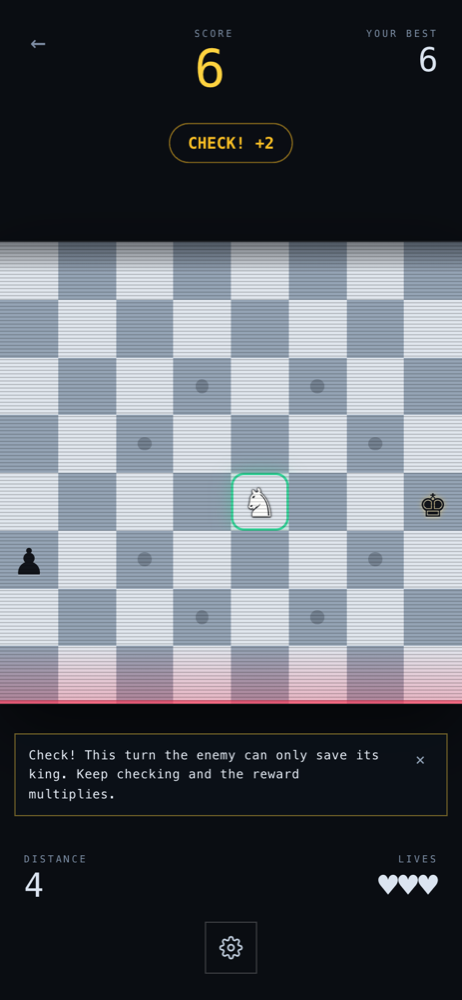
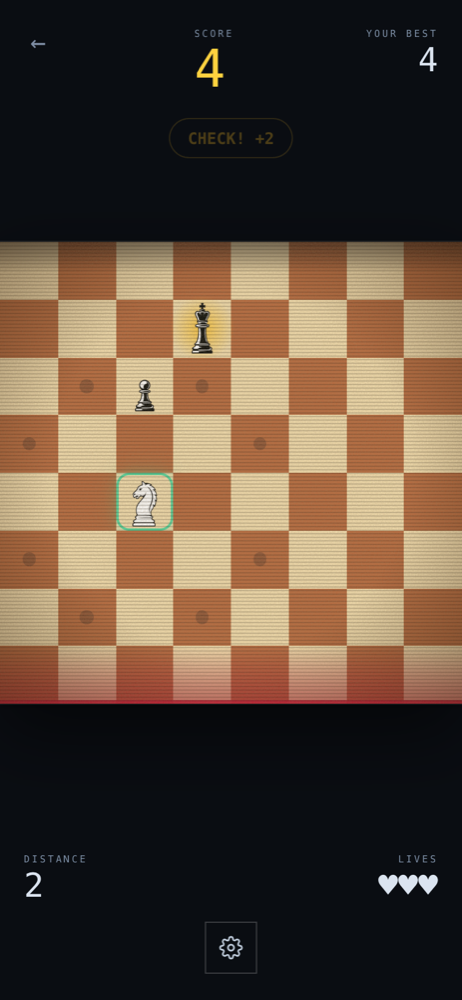
README güncel; ana sayfa kart başlıkları kesilmiyor
- README: dört güncel ekran görüntüsü (menü, Hunt, Trio, yeni Maharajah);
  ortak haftalık lig ve kurtarma kodu; Maharajah puanı ve lige sayılması;
  depo yapısı (src, server, sub, shared).
- Ana sayfa: «EN İYİN» etiketi yalnızca geniş ekranda tek satır - mobilde
  uzun etiket (YOUR BEST, DEIN BESTES) kart başlığını kesiyordu. Kart
  başlığı dilin kuralıyla tirelenip alt satıra inebiliyor
  (TAGESHERAUSFORDERUNG dar kartta kesilmiyor).

diff --git a/src/App.css b/src/App.css
@@ -1000,6 +1000,14 @@
   }
 }
 
+/* «EN İYİN» iki kelime: geniş kartta alt alta kırılmasın. Mobilde kırılabilir -
+   yoksa uzun etiket (YOUR BEST, DEIN BESTES) kart başlığını kesiyordu */
+@media (min-width: 760px) {
+  .bi-hi em {
+    white-space: nowrap;
+  }
+}
+
 /* Geniş masaüstü: kartlar ve yazılar bir kademe büyük - 340px'lik kartlar
    1440px ekranda küçük ve 10px metin okunmuyordu */
 @media (min-width: 1200px) {
@@ -1150,9 +1158,11 @@
   font-size: 14px;
   letter-spacing: 0.11em;
   font-weight: 400;
-  white-space: nowrap;
-  overflow: hidden;
-  text-overflow: ellipsis;
+  /* Uzun tek kelime (TAGESHERAUSFORDERUNG) dar kartta kesilmesin: dilin
+     kuralıyla tirelenip alt satıra iner (html lang App.tsx'te ayarlı) */
+  hyphens: auto;
+  -webkit-hyphens: auto;
+  overflow-wrap: break-word;
 }
 
 .bi-t small {
@@ -1178,8 +1188,6 @@
 .bi-hi em {
   display: block;
   font-style: normal;
-  /* «EN İYİN» iki kelime: dar kartta alt alta kırılmasın */
-  white-space: nowrap;
   font-size: 8.5px;
   letter-spacing: 0.2em;
   color: #8496ad;

diff --git a/README.md b/README.md
@@ -12,11 +12,13 @@
 <p><a href="https://chessrun.app"><img src="https://img.shields.io/badge/%E2%96%B6%20Play%20now-chessrun.app-f5c518?style=for-the-badge&amp;labelColor=0b0e14" alt="▶ Play now: chessrun.app" height="68"></a></p>
 
 <p>
-  <img src="docs/screenshots/menu.png" alt="ChessRun main menu" width="210">
-  &nbsp;&nbsp;&nbsp;
-  <img src="docs/screenshots/hunt.png" alt="Hunt mode" width="210">
-  &nbsp;&nbsp;&nbsp;
-  <img src="docs/screenshots/trio.png" alt="Trio mode" width="210">
+  <img src="docs/screenshots/menu.png" alt="ChessRun main menu" width="180">
+  &nbsp;&nbsp;
+  <img src="docs/screenshots/hunt.png" alt="Hunt mode" width="180">
+  &nbsp;&nbsp;
+  <img src="docs/screenshots/trio.png" alt="Trio mode" width="180">
+  &nbsp;&nbsp;
+  <img src="docs/screenshots/maharajah.png" alt="Maharajah, Falcon role" width="180">
 </p>
 
 </div>
@@ -38,11 +40,21 @@ An endless runner on an endlessly scrolling chessboard. You move with chess move
 - Take the enemy king: +25 points, +1 life and a fresh board.
 - Give check and the enemy must defend; chained checks multiply the score.
 - Fall off the bottom row or get taken and you lose a life.
-- Daily challenge: everyone gets the same board each day, once a day. Weekly leaderboard, no sign-up.
-- Maharajah: classic 8×8, no scrolling, play as often as you like. Pawns do not promote, stalemate is a draw, 50 moves or threefold repetition is a draw.
+- Daily challenge: everyone gets the same board each day, once a day.
+- One weekly league for all games, no sign-up. A recovery code moves your name, badges and scores to another device.
+- Maharajah: classic 8×8, no scrolling, play as often as you like. Pawns do not promote, stalemate is a draw, 50 moves or threefold repetition is a draw. Points: material (captured as Falcon, kept as Hunter on a win), +50 for a win, +10 for stalemate, +1 for every move under 50 on a win; they count in the weekly league.
 - Works offline once opened (PWA). Five languages: EN, DE, TR, ES, FR.
 
 How it all works (rules, fairness, difficulty, architecture): [design notes](docs/design.md). Piece artwork lives in [`public/figures/`](public/figures/): the source sheet `figure.png` and each figure cut out in white and black.
+
+## Repository
+
+| Folder | What |
+|---|---|
+| `src/` | The game: React UI, engines (`src/engine/`), lessons and settings (`src/ui/`) |
+| `server/` | Cloudflare Worker + D1: weekly league, daily challenge, stats, recovery codes |
+| `sub/` | The admin panel served by the Worker |
+| `shared/` | The contract between game, Worker and panel (no dependencies) |
 
 ## Development
 
